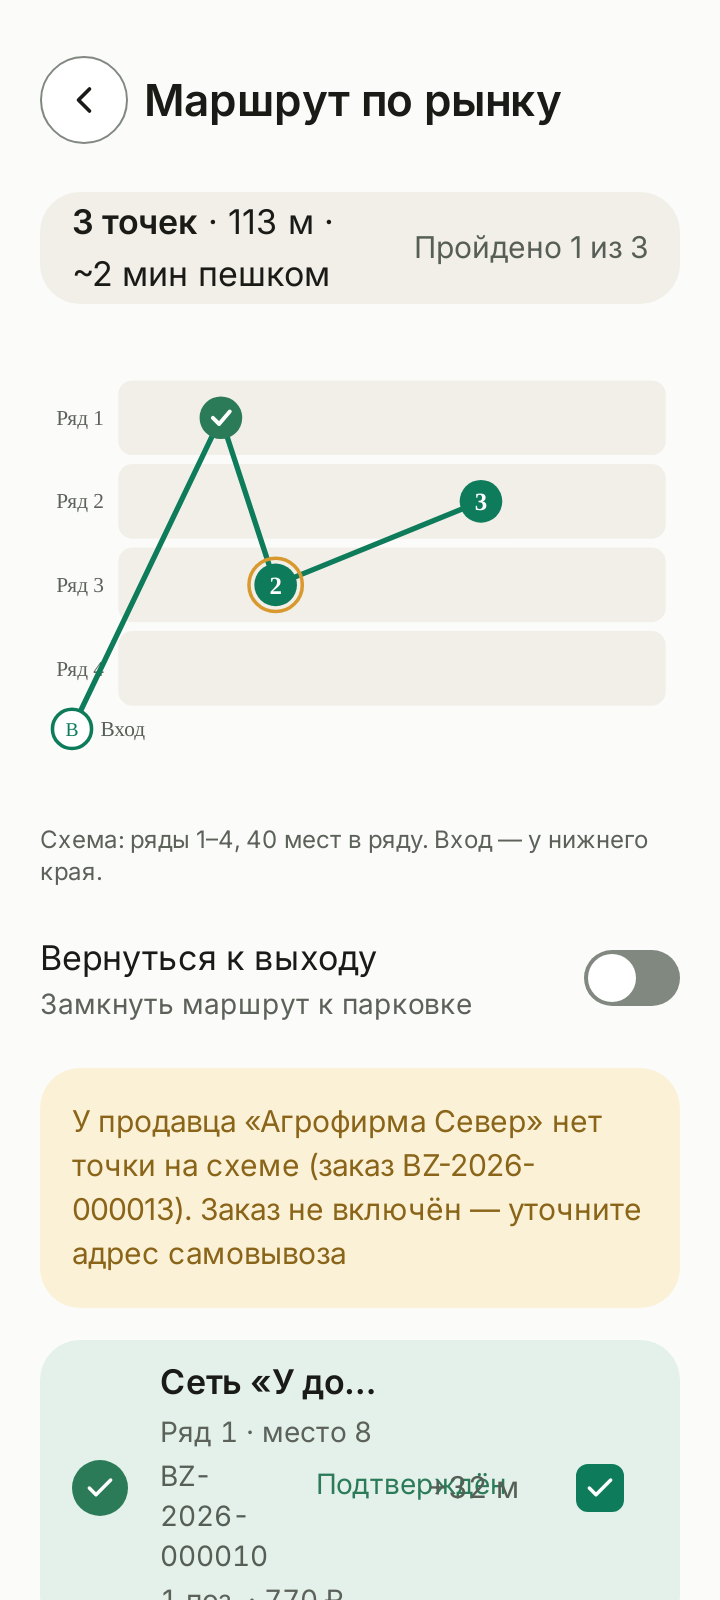
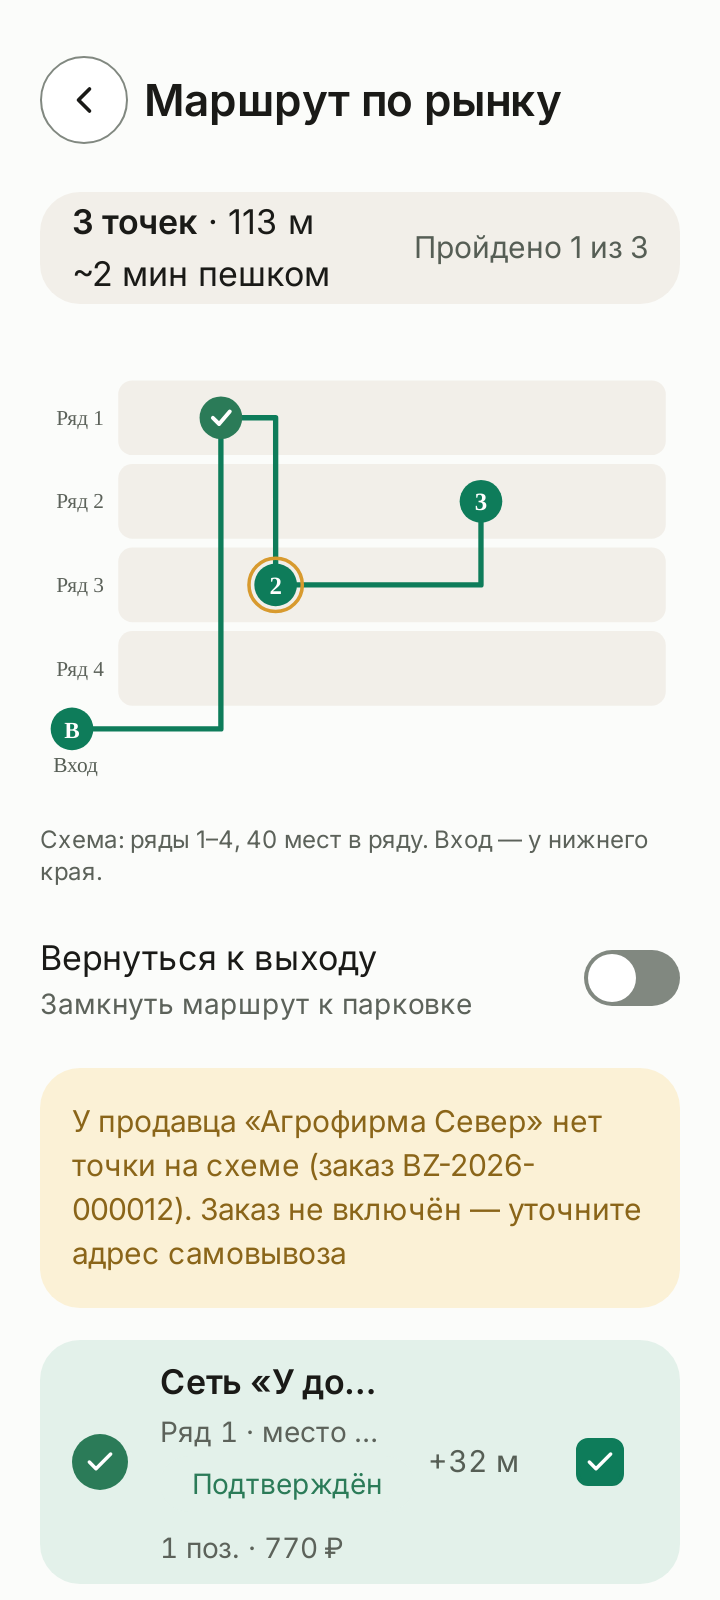
fix(market): номер заказа в переносящемся ряду остановки (Промт 17, B)
Строка «Ряд R · место S · BZ-…» обрезалась на 390 (VLM, итерация 2):
номер переезжает в нижний ряд к бейджу статуса и составу —
ряд переносится целиком (flexWrap + flexShrink), позиция
остаётся полной. Golden 5 кадров пересняты, pixelmatch 0.000%.

diff --git a/packages/ui/src/components/RouteStopRow/RouteStopRow.tsx b/packages/ui/src/components/RouteStopRow/RouteStopRow.tsx
@@ -111,13 +111,13 @@ export function RouteStopRow({
         )}
       </View>
 
-      {/* Центр: продавец, позиция+заказ одной строкой, статус */}
+      {/* Центр: продавец, позиция, статус+заказ (перенос снизу) */}
       <View style={{ flex: 1, gap: 2, minWidth: 0 }}>
         <Text variant="bodyStrong" numberOfLines={1}>
           {sellerName}
         </Text>
         <Text variant="caption" color="textMuted" mono numberOfLines={1}>
-          {`Ряд ${row} · место ${spot} · ${orderNumber}`}
+          {`Ряд ${row} · место ${spot}`}
         </Text>
         <View
           style={{
@@ -129,8 +129,16 @@ export function RouteStopRow({
           }}
         >
           <OrderStatus status={ROUTE_STATUS_MAP[status]} />
-          <Text variant="caption" color="textMuted" mono>
-            {`${itemsCount} поз. · ${formatPrice(total)}`}
+          {/* Номер заказа рядом с составом: строка переносится
+              целиком, не наезжая на колонку метров (VLM, итерация 2). */}
+          <Text
+            variant="caption"
+            color="textMuted"
+            mono
+            numberOfLines={1}
+            style={{ flexShrink: 1 }}
+          >
+            {`${orderNumber} · ${itemsCount} поз. · ${formatPrice(total)}`}
           </Text>
         </View>
       </View>

diff --git a/packages/ui/src/components/RouteStopRow/RouteStopRow.test.tsx b/packages/ui/src/components/RouteStopRow/RouteStopRow.test.tsx
@@ -6,6 +6,7 @@
  * (чекбокс не открывает заказ, строка не переключает чек).
  */
 import { fireEvent, render } from '@testing-library/react-native';
+import { NARROW_NBSP } from '../PriceDisplay';
 import { RouteStopRow } from './RouteStopRow';
 
 const PROPS = {
@@ -32,7 +33,10 @@ describe('RouteStopRow', () => {
   it('показывает продавца, позицию, заказ и метры', async () => {
     const screen = await render(<RouteStopRow {...PROPS} />);
     expect(screen.getByText('Опт-Юг')).toBeTruthy();
-    expect(screen.getByText('Ряд 3 · место 12 · BZ-2026-000005')).toBeTruthy();
+    expect(screen.getByText('Ряд 3 · место 12')).toBeTruthy();
+    expect(
+      screen.getByText(`BZ-2026-000005 · 3 поз. · 456${NARROW_NBSP}₽`),
+    ).toBeTruthy();
     expect(screen.getByText('+120 м')).toBeTruthy();
     expect(screen.getByText(/3 поз\./)).toBeTruthy();
   });

diff --git a/apps/mobile/src/__tests__/market-route.test.tsx b/apps/mobile/src/__tests__/market-route.test.tsx
@@ -200,7 +200,7 @@ describe('MarketRouteScreen', () => {
     expect(screen.getByTestId('market-route-stop-2')).toBeTruthy();
     expect(screen.getByTestId('market-route-stop-3')).toBeTruthy();
     expect(screen.getByText('Сеть «У дома»')).toBeTruthy();
-    expect(screen.getByText('Ряд 3 · место 12 · BZ-2026-000007')).toBeTruthy();
+    expect(screen.getByText('Ряд 3 · место 12')).toBeTruthy();
     expect(screen.getByText('+76 м')).toBeTruthy();
   });
 
